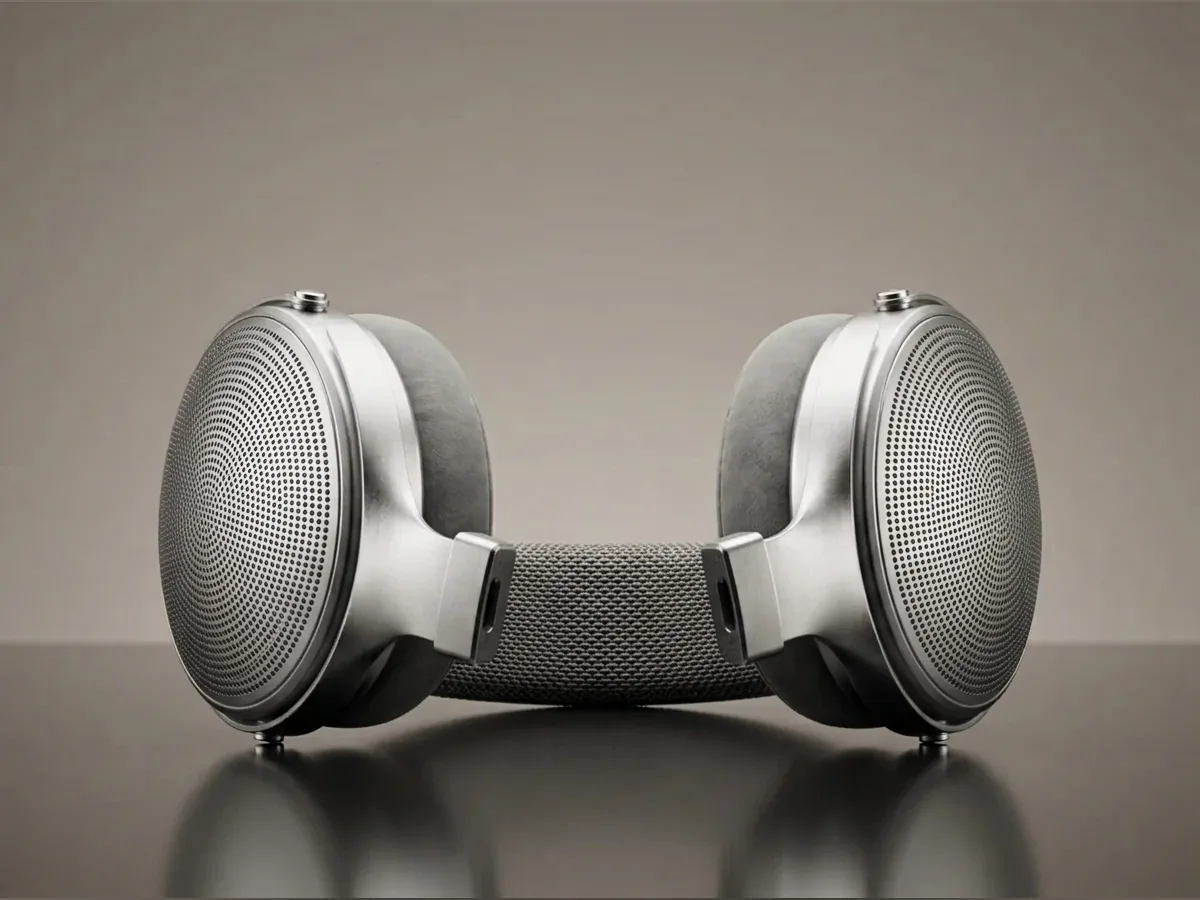
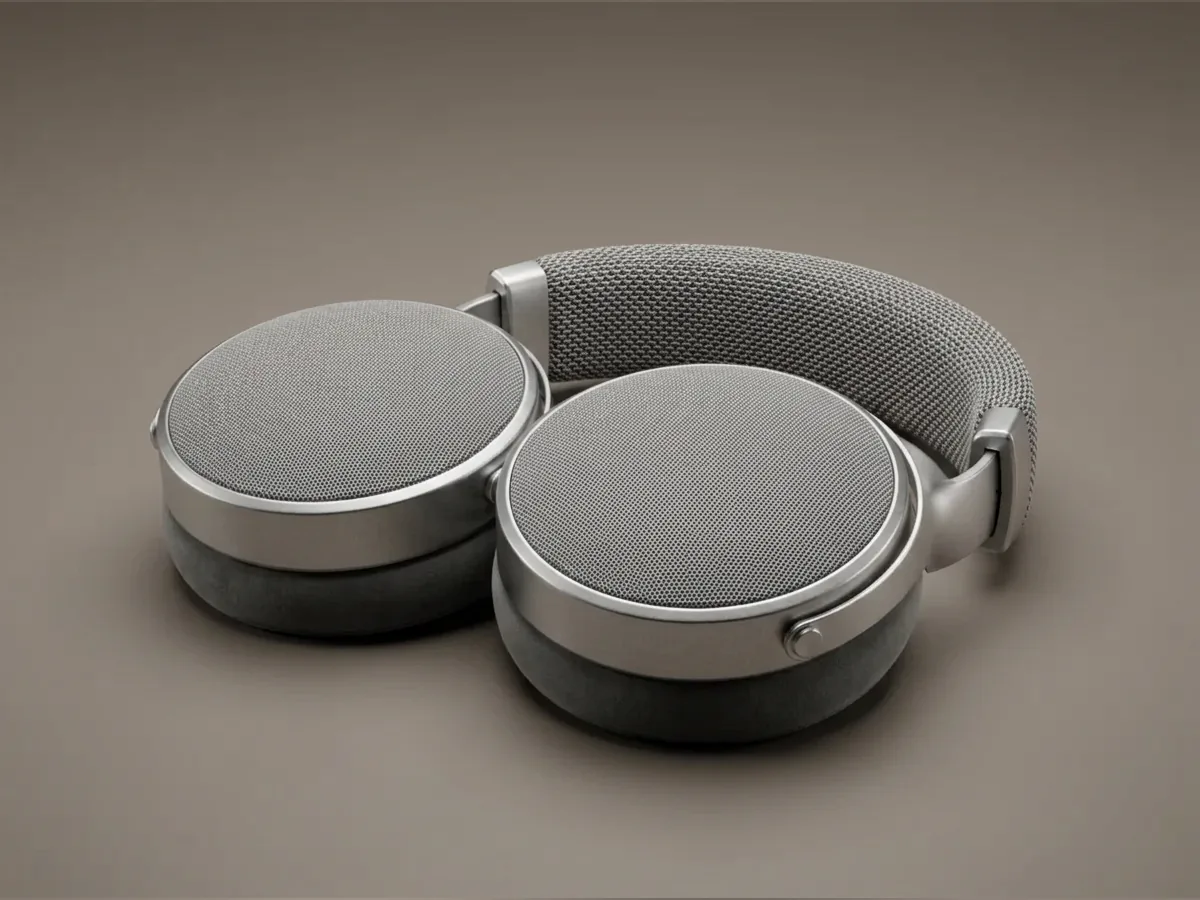
0.89.10: пересъёмка телевизора и наушников
- телевизор: пейзаж перенесён с главного кадра перспективным преобразованием —
  тот же экран, другой угол, матовый стол, без отражений
- наушники: сложены на матовом полу, только контактная тень

diff --git a/docs/RELEASE-0.89.10.md b/docs/RELEASE-0.89.10.md
@@ -67,14 +67,28 @@
 Все кадры — 1200×900, webp в `public/products/gallery/<id>-alt.webp`, подписи —
 `ALTERNATES` в `src/ui/TechTour.tsx`.
 
-## 4. Куличик: сверху, но не «крест из посыпки»
+## 4. Пересъёмка: телевизор и наушники
+
+**Телевизор.** Первый второй ракурс был снят с нуля со своим пейзажем: панель
+ровная, но на экране другой вид — рядом с главным кадром это читается как
+другой телевизор. Генерация по референсу, наоборот, возвращала либо тот же
+угол, либо задвоенную панель. Решение — не генерация, а перенос картинки:
+экран главного кадра развёрнут по перспективе в четырёхугольник экрана второго
+и вклеен туда. Плоский экран — плоская поверхность, поэтому перспективное
+преобразование точное: пейзаж тот же, угол другой, стол матовый, отражений нет.
+
+**Наушники.** В первом варианте на полу было сильное зеркальное отражение —
+сложенные наушники читались как два предмета. Пересняты на матовом полу: только
+мягкая контактная тень, обе чашки и сложенное оголовье видны.
+
+## 5. Куличик: сверху, но не «крест из посыпки»
 
 Прошлая попытка снять кулич сверху дала симметричный крест из посыпки — на
 витрине это читалось как знак, а не как еда. Теперь камера выше на 45 градусов
 и сдвинута вбок: видны и глазурь с потёками, и рёбра бумажной формы, и круглая
 макушка, посыпка рассыпана свободно.
 
-## 5. Что осталось в серии
+## 6. Что осталось в серии
 
 Одно-кадровых товаров больше нет: 43 позиции с фотографией и вторым ракурсом.
 Наряды (38 позиций) по-прежнему без фото — это отдельная серия, см.
